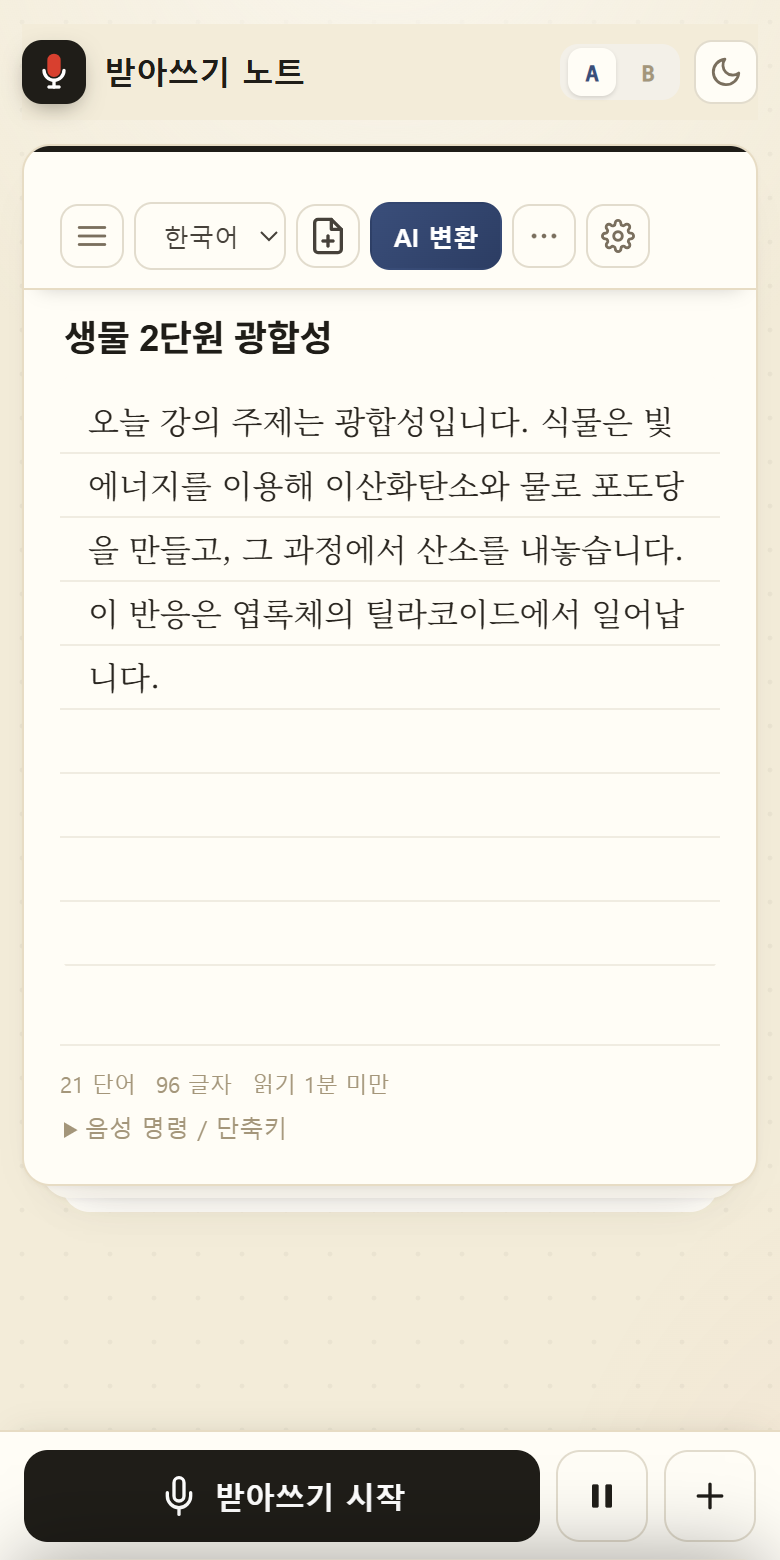
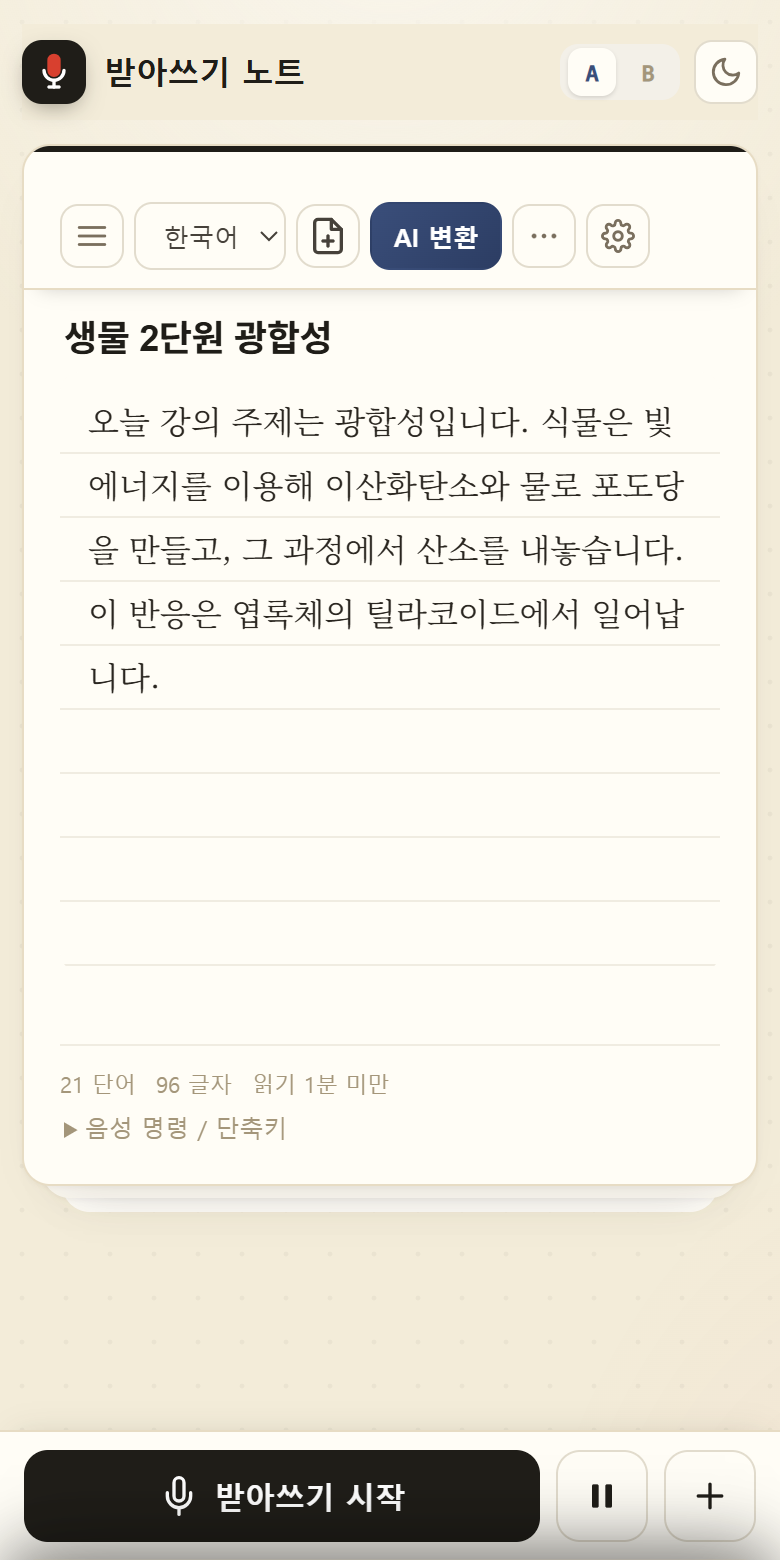
fix(P-080): 소개 페이지 여백을 위아래가 아닌 콘텐츠 사이로 재분배
지적: About 라벨이 카드에 붙어 있는데 위쪽 여백만 과도함.

원인(측정): justify-content:center 가 콘텐츠 덩어리를 가운데로 뭉치고
남는 공간을 전부 위아래로 밀어냈다. 내부 간격은 최소값에 눌림.
  PC 기준 - 위 132px / About~제목 16px / 제목~본문 22px / 아래 112px  (8:1 편차)

수정:
- .rs-main 을 justify-content:space-evenly + gap 으로 변경
  남는 공간이 콘텐츠 '사이'에 균등 분배되도록
- 섹션 인라인 패딩 제거, 간격은 gap이 단독 담당 (중복 소스 제거)
- 인트로 내부 리듬 클래스화: .rs-eyebrow / .rs-h1 / .rs-sub margin을
  vh 기반 clamp로 통일 (인라인 margin 제거)
- 모바일도 좌우 패딩만 남기고 상하는 space-evenly에 위임

결과(측정): 위/카드/아래가 동일값으로 균등
  FHD 139/139/139 · PC 88/88/88 · 노트북 66/66/66 · 모바일 75/75/75 · SE 47/47/47
스크롤 0, CTA-푸터 잘림 0 (5개 뷰포트 재확인)

Changed region(s): [[0.0, 0.9846, 0.9846, 1.0]]

diff --git a/public/about.html b/public/about.html
@@ -23,13 +23,24 @@
   html, body { height:100%; }
   body { overflow:hidden; }
   .rs-page { height:100vh; height:100dvh; display:flex; flex-direction:column; overflow:hidden; }
-  .rs-main { flex:1; min-height:0; display:flex; flex-direction:column; justify-content:center; overflow:hidden; }
 
-  /* 화면이 낮아지면 여백·글자를 단계적으로 줄여 1화면을 유지한다 */
-  .rs-intro { padding:clamp(16px,4vh,56px) 34px clamp(10px,2.2vh,32px) !important; }
-  .rs-cards { padding:0 34px clamp(8px,1.8vh,24px) !important; }
+  /* 남는 공간을 위아래로 몰지 않고 콘텐츠 '사이'에 나눠 준다.
+     (justify-content:center 는 덩어리를 가운데 뭉치고 내부는 최소값으로 눌러
+      위 132px / 사이 16px 처럼 리듬이 깨졌다) */
+  .rs-main { flex:1; min-height:0; display:flex; flex-direction:column;
+             justify-content:space-evenly; gap:clamp(14px,2.5vh,34px);
+             padding:clamp(14px,2.5vh,34px) 0; overflow:hidden; }
+
+  /* 섹션 자체 패딩은 최소화 — 간격은 위 gap/space-evenly가 담당 */
+  .rs-intro { padding:0 34px !important; }
+  .rs-cards { padding:0 34px !important; }
   .rs-card  { padding:clamp(15px,2.4vh,26px) clamp(15px,1.8vw,24px) !important; }
-  .rs-cta   { margin-top:clamp(10px,1.8vh,26px) !important; padding:clamp(15px,2.2vh,26px) clamp(18px,2.2vw,30px) !important; }
+  .rs-cta   { margin-top:clamp(12px,2vh,22px) !important; padding:clamp(15px,2.2vh,26px) clamp(18px,2.2vw,30px) !important; }
+
+  /* 인트로 내부 리듬 — eyebrow·제목·본문이 붙지 않게 */
+  .rs-eyebrow { margin-bottom:clamp(10px,1.6vh,18px) !important; }
+  .rs-h1 { margin:0 !important; }
+  .rs-sub { margin:clamp(14px,2.2vh,24px) auto 0 !important; }
 
   @media (max-height:820px){
     .rs-h1 { font-size:clamp(26px,3.6vw,36px) !important; }
@@ -46,8 +57,10 @@
 
   /* 모바일: 카드 2열로 접어 세로 길이 절반 */
   @media (max-width:640px){
-    .rs-intro { padding:clamp(10px,2vh,22px) 18px clamp(8px,1.4vh,16px) !important; }
-    .rs-cards { padding:0 18px clamp(6px,1.2vh,14px) !important; }
+    /* 좌우 여백만 좁히고, 상하 간격은 .rs-main 의 space-evenly가 담당 */
+    .rs-intro { padding:0 18px !important; }
+    .rs-cards { padding:0 18px !important; }
+    .rs-main { gap:clamp(10px,1.8vh,20px); padding:clamp(10px,1.8vh,20px) 0; }
     .rs-h1 { font-size:clamp(21px,6vw,27px) !important; }
     .rs-sub { font-size:13px !important; margin-top:10px !important; line-height:1.6 !important; }
     .rs-grid { grid-template-columns:1fr 1fr !important; gap:8px !important; }
@@ -96,12 +109,12 @@
   <section style="position:relative; flex:0 0 auto;">
     <div style="position:absolute; top:-16%; left:50%; transform:translateX(-50%); width:640px; height:520px; border-radius:50%; background:radial-gradient(circle,rgba(43,134,245,0.14),rgba(43,134,245,0) 66%); pointer-events:none;"></div>
     <div class="rs-wrap rs-intro" style="position:relative; max-width:820px; margin:0 auto; text-align:center;">
-      <div style="font-family:'Poppins',sans-serif; font-size:12px; font-weight:500; letter-spacing:0.16em; text-transform:uppercase; color:#5cc4f5; animation:rs-rise .6s ease both;">About</div>
-      <h1 class="rs-h1" style="margin:16px 0 0; font-size:clamp(30px,5vw,46px); line-height:1.1; font-weight:600; letter-spacing:-0.042em; color:#f2f6fc; animation:rs-rise .7s ease .08s both;">
+      <div class="rs-eyebrow" style="font-family:'Poppins',sans-serif; font-size:12px; font-weight:500; letter-spacing:0.16em; text-transform:uppercase; color:#5cc4f5; animation:rs-rise .6s ease both;">About</div>
+      <h1 class="rs-h1" style=" font-size:clamp(30px,5vw,46px); line-height:1.1; font-weight:600; letter-spacing:-0.042em; color:#f2f6fc; animation:rs-rise .7s ease .08s both;">
         <span data-en="No mission statement.">거창한 미션은 없습니다.</span><br>
         <span style="background:linear-gradient(96deg,#1f56dc,#2b86f5 55%,#38c8f0); -webkit-background-clip:text; background-clip:text; color:transparent;" data-en="Just apps, made with care.">앱을, 정성껏 만들 뿐.</span>
       </h1>
-      <p class="rs-sub" style="margin:22px auto 0; font-size:16.5px; line-height:1.75; color:#98a4b6; max-width:520px; animation:rs-rise .7s ease .16s both;" data-en="RnR soft is an app studio. One app is in service and the next is being built — one at a time, kept small and simple.">RnR soft는 앱을 만드는 스튜디오입니다. 한 개를 운영하고, 다음을 만드는 중입니다. 한 번에 하나씩, 작고 단순하게.</p>
+      <p class="rs-sub" style=" font-size:16.5px; line-height:1.75; color:#98a4b6; max-width:520px; animation:rs-rise .7s ease .16s both;" data-en="RnR soft is an app studio. One app is in service and the next is being built — one at a time, kept small and simple.">RnR soft는 앱을 만드는 스튜디오입니다. 한 개를 운영하고, 다음을 만드는 중입니다. 한 번에 하나씩, 작고 단순하게.</p>
     </div>
   </section>
 

diff --git a/public/media/note-media.js b/public/media/note-media.js
@@ -15,10 +15,11 @@
 window.NOTE_MEDIA = {
   // 앱 스크린샷 · GIF — 순서대로 갤러리에 표시된다
   shots: [
-    { src: '/media/img/note-dictation.gif', alt: '말하면 글자가 실시간으로 쌓이는 모습', caption: '말하면 자동으로 받아적힙니다' },
-    { src: '/media/img/note-home.png',      alt: '받아쓰기 노트 홈 화면',                caption: '홈 — 받아쓰기 시작' },
-    { src: '/media/img/note-ai.png',        alt: 'AI 자동 정리 · 질문 · 학습카드 패널',  caption: 'AI 변환 — 요약·개조식·회의록·카드' },
-    { src: '/media/img/note-cards.png',     alt: '받아쓴 내용이 학습 플래시카드로',      caption: '학습카드 — 받아쓴 내용이 바로 복습 카드로' },
+    { src: '/media/img/note-dictation.gif',   alt: '말하면 글자가 실시간으로 쌓이는 모습',        caption: '말하면 자동으로 받아적힙니다' },
+    { src: '/media/img/note-home.png',        alt: '받아쓰기 노트 홈 화면',                        caption: '홈 — 받아쓰기 시작' },
+    { src: '/media/img/note-ai-cleanup.gif',  alt: '받아쓴 원본을 개조식·요약·표로 자동 정리',    caption: 'AI 정리 — 개조식·요약·표로 한 번에' },
+    { src: '/media/img/note-ai.png',          alt: 'AI 자동 정리 · 질문 · 학습카드 패널',          caption: 'AI 변환 — 요약·개조식·회의록·카드' },
+    { src: '/media/img/note-cards.png',       alt: '받아쓴 내용이 학습 플래시카드로',            caption: '학습카드 — 받아쓴 내용이 바로 복습 카드로' },
   ],
 
   // 유튜브 소개 영상 — 영상 ID만 (예: 'dQw4w9WgXcQ')
